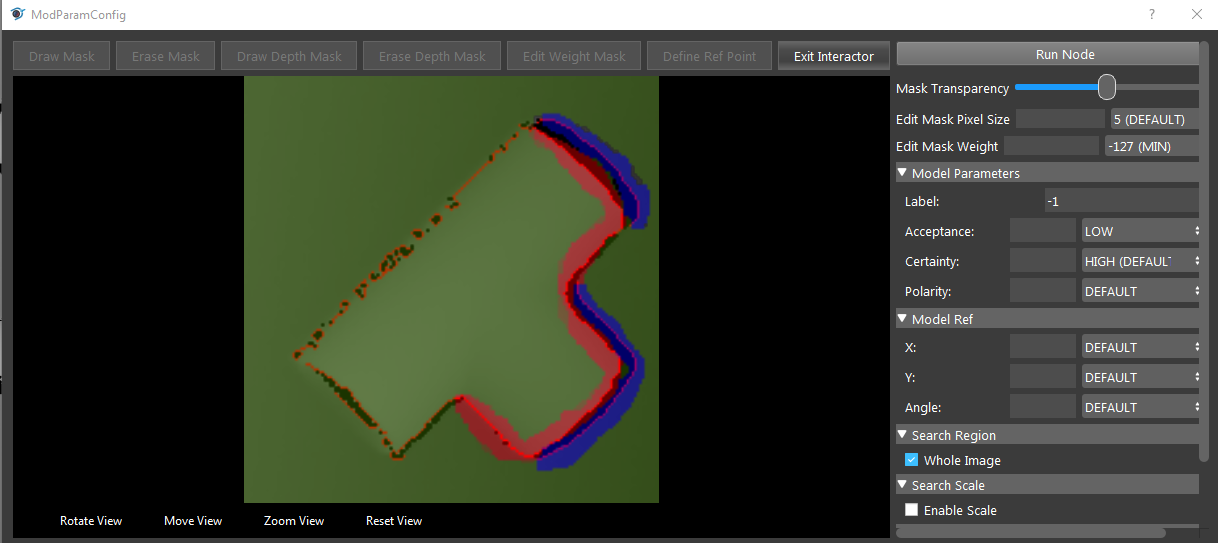
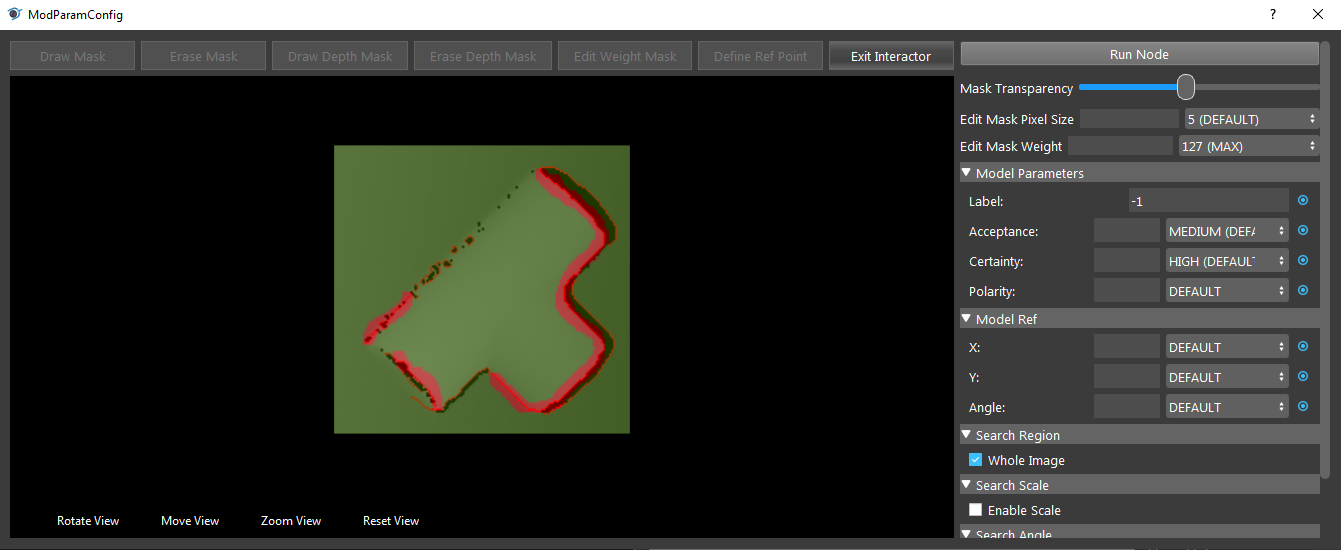
fix images

Changed region(s): [[0.0, 0.0589, 0.9984, 1.0], [0.0, 0.0, 0.1248, 0.0589], [0.3432, 0.3536, 0.3744, 0.442]]

diff --git a/docs/nodes/DA Modules/Mod Finder Node.rst b/docs/nodes/DA Modules/Mod Finder Node.rst
@@ -309,7 +309,7 @@ select the region that contains the desired model.
 		:scale: 70%
 
 14. Click on the "Draw Mask", then use mouse to cover all the area until only the edge of the model is extracted by red lines.
-	.. image:: images/mod_finder_procedure_16.png
+	.. image:: images/mod_finder_procedure_14_2d.png
 		:scale: 70%
 
 15. Run the Mod Finder node. All of the objects are detected.
@@ -376,7 +376,7 @@ Select "DA PointCloud -> DA depth map" when creating the node.**
 		:scale: 70%
 
 14. Open the Model Parameter Configurator. Set the "Acceptance" to low.
-	.. image:: images/mod_finder_procedure_30.png
+	.. image:: images/mod_finder_procedure_16.png
 			:scale: 70%
 
 15. Run the Mod Finder node again. All of the objects are found.
@@ -443,7 +443,7 @@ So that whenever we find a match for these edges, the matching score will be hig
 And if you are confident that a particlar edge is not present in the object, and that if finding such an edge means that the case is not likely to be an object, then you should draw negatively weighted masks.
 So that whenever we find a match for these edges, the matching score will be low.
 
-.. image:: images/weighted_mask_2.png
+.. image:: images/weighted_mask_3.png
 
 
 .. Model Configuration
